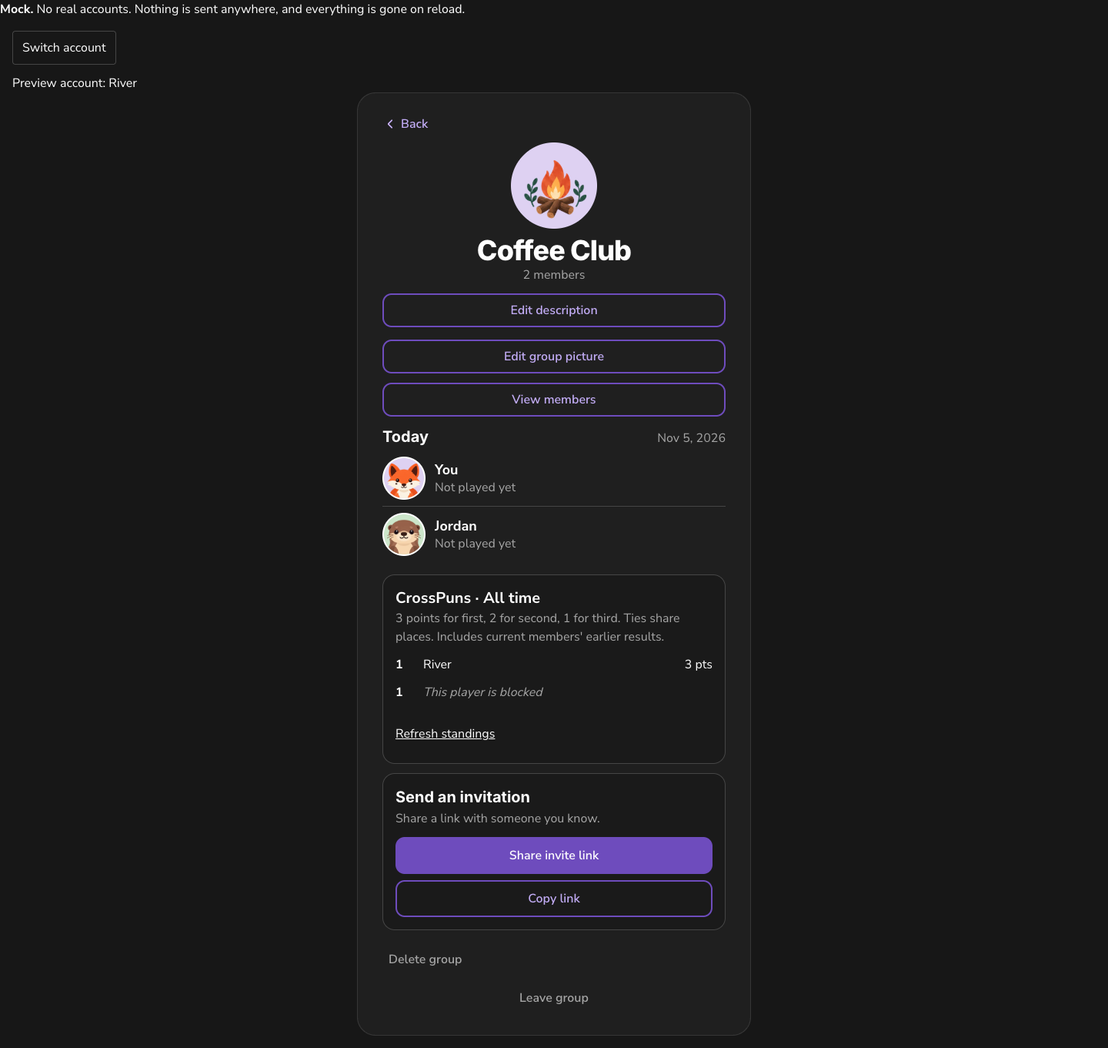
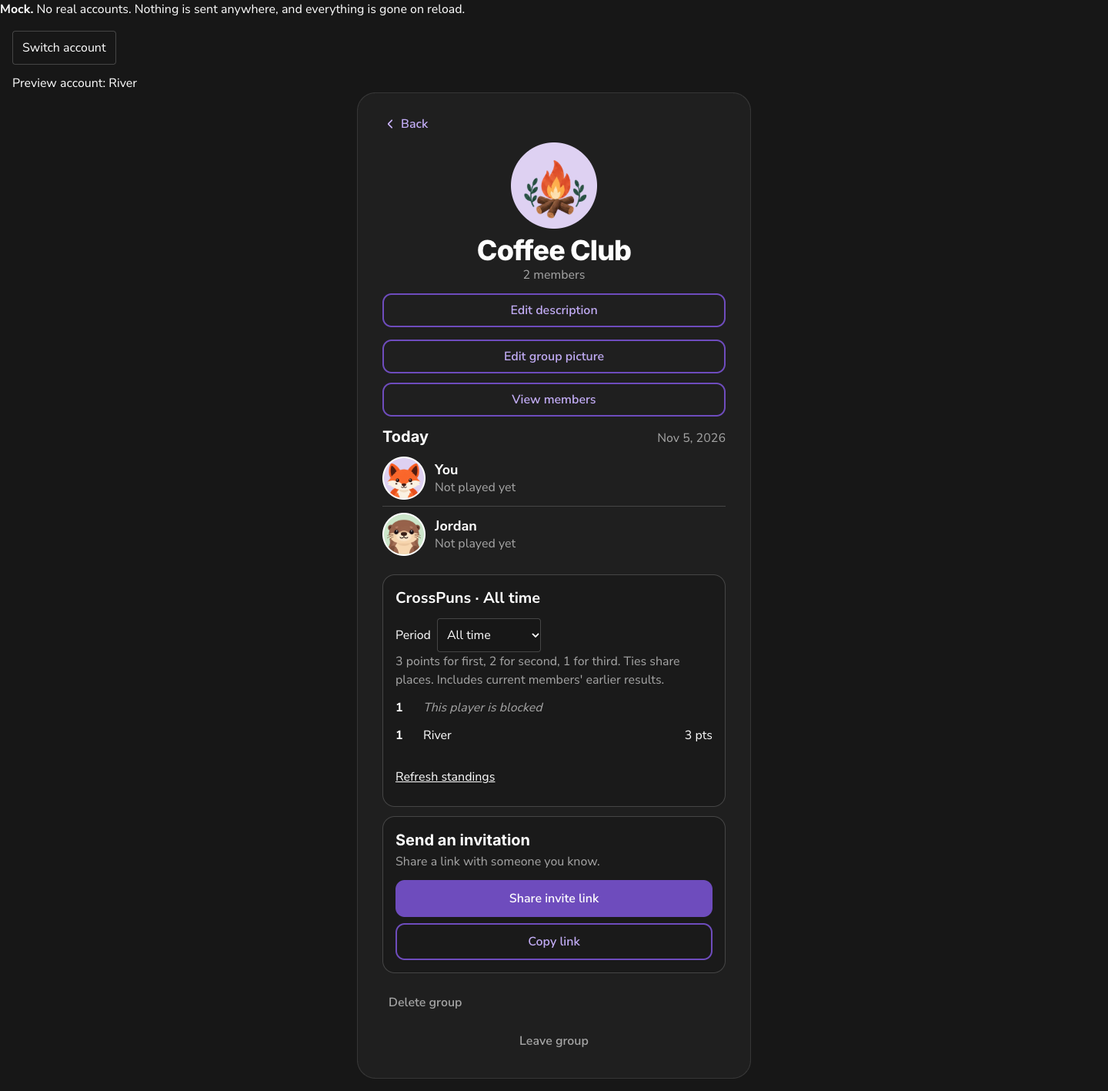
Add rolling CrossPuns standings by puzzle publication date

diff --git a/shared-service/tests/crosspunsStandings.test.ts b/shared-service/tests/crosspunsStandings.test.ts
@@ -11,6 +11,7 @@ beforeAll(async()=>{
  create table public.xw_solves(account_id uuid,puzzle_id uuid,seconds int,used_help boolean,solved_at timestamptz,primary key(account_id,puzzle_id));
  create function public.xw_today_local() returns date language sql as $$select (now() at time zone 'Pacific/Kiritimati')::date$$;`);
  await db.exec(readFileSync('shared-service/patches/0008_crosspuns_standings.sql','utf8'));
+ await db.exec(readFileSync('shared-service/patches/0009_crosspuns_rolling.sql','utf8'));
  for(const who of users){await call('ensure_person',[who,'rainbow']);await call('set_profile',[who,who,'fox','#DED1F2']);await db.query('insert into public.xw_accounts(global_user_id) values($1)',[who]);}
  ({groupId:group,inviteCode:code}=(await call('create_group',[users[0],'Club','Alice',1])).data);
  for(let i=1;i<4;i++)await call('join_group',[users[i],code,['Alice','Bob','Carol','Dave'][i],1]);
@@ -27,6 +28,27 @@ it('ranks current members using all prior history, competition ties and no dupli
  expect(answer.data.total).toBe(4);expect(answer.data.rows.map((r:any)=>[r.rank,r.points])).toEqual([[1,3],[1,3],[3,1],[4,0]]);
  expect((await call('crosspuns_standings',[users[0],group,50])).data.rows).toEqual([]);
 });
+it.each([[7,'2024-02-24'],[30,'2024-02-01'],[365,'2023-03-03']])('filters %i days by publication, inclusive boundaries, regardless of solve date',async(days,start)=>{
+ await db.exec('begin');
+ try {
+  for(const date of [start,'2024-03-01']){
+   const puzzle=(await db.query<{id:string}>('insert into public.xw_puzzles(publish_date) values($1) returning id',[date])).rows[0].id;
+   // A late solve is attributed to the puzzle's date, not today's timestamp.
+   await db.query("insert into public.xw_solves select id,$2,20,false,now() from public.xw_accounts where global_user_id=$1",[users[0],puzzle]);
+  }
+  for(const expression of ["$1::date-1","'2024-03-02'::date"]){
+   const puzzle=(await db.query<{id:string}>(`insert into public.xw_puzzles(publish_date) values(${expression}) returning id`,expression.includes('$1')?[start]:[])).rows[0].id;
+   await db.query("insert into public.xw_solves select id,$2,1,false,'2024-03-01' from public.xw_accounts where global_user_id=$1",[users[1],puzzle]);
+  }
+  const answer=await call('crosspuns_standings_period',[users[0],group,0,days,'2024-03-01']);
+  expect(answer.ok).toBe(true);expect(answer.data.rows.find((r:any)=>r.name==='Alice').points).toBe(6);
+  expect(answer.data.rows.find((r:any)=>r.name==='Bob').points).toBe(0);
+ } finally {await db.exec('rollback');}
+});
+it('keeps old all-time requests compatible and rejects malformed/incomplete periods',async()=>{
+ expect(await call('crosspuns_standings_period',[users[0],group,0,null,null])).toEqual(await call('crosspuns_standings',[users[0],group,0]));
+ for(const args of [[7,null],[null,'2024-03-01'],[8,'2024-03-01'],[7,'2024-02-30'],[7,'bad'],[7,'2024-3-1']])expect((await call('crosspuns_standings_period',[users[0],group,0,...args])).ok).toBe(false);
+});
 it('masks either direction without changing ranks or ordinary block result behavior',async()=>{
  expect((await call('block',[users[0],refs[1]])).ok).toBe(true);
  for(const [viewer,hidden] of [[users[0],refs[1]],[users[1],refs[0]]]){
@@ -36,6 +58,8 @@ it('masks either direction without changing ranks or ordinary block result behav
   expect(rows.map((r:any)=>r.rank)).toEqual([1,1,3,4]);
  }
  expect((await call('crosspuns_standings',[users[2],group,0])).data.rows.every((r:any)=>!r.blocked)).toBe(true);
+ const periodRows=(await call('crosspuns_standings_period',[users[0],group,0,7,'2020-01-01'])).data.rows;
+ expect(periodRows.filter((r:any)=>r.blocked)).toEqual([{blocked:true,rank:1,label:'This player is blocked'}]);
  const audience=(await db.query<{r:any}>('select social.audience_global_ids($1,$2) r',[users[0],group])).rows[0].r;
  expect(audience.data).not.toContain(users[1]);
 });

diff --git a/src/social/memoryHub.ts b/src/social/memoryHub.ts
@@ -142,6 +142,8 @@ export interface MemoryHub {
   transportFor(game: GameId): SocialTransport;
   /** The game-server route. No token reaches it, and nothing on a transport reaches it either. */
   serverFor(game: GameId): SocialServerRoute;
+  /** Test-only publication metadata; never infer it from completion time. */
+  seedCrossPunsPublication(puzzleId: string, date: string): void;
   /** One game deleted its account: only that game's link goes (D5). */
   unlinkGame(game: GameId, globalUserId: string): void;
   /** For conformance checks. No operation shows which games someone is in. */
@@ -396,6 +398,7 @@ export function createMemoryHub({ identity, now = Date.now, gameStatus = GAME_ST
   const blocks = new Map<string, Block>();
   const friendInvites = new Map<string, FriendInvite>();
   const groups = new Map<string, Group>();
+  const crossPunsDates = new Map<string,string>();
   const results = new Map<string, ResultCard>();
 
   /** Exactly 12 characters of 0-9a-z, whatever the id source gives. The tries only stop a source that gives nothing usable. */
@@ -938,15 +941,23 @@ export function createMemoryHub({ identity, now = Date.now, gameStatus = GAME_ST
       return done(NOTHING);
     },
 
-    crossPunsStandings(me, {groupId,offset}) {
+    crossPunsStandings(me, {groupId,offset,days,through}) {
       const found=membership(me,groupId);
       if(!found)return fail('not_a_member');
       if(!Number.isSafeInteger(offset)||offset<0||offset>10000)return fail('not_found');
+      let from: string | undefined;
+      if(days!==undefined || through!==undefined){
+        if(![7,30,365].includes(days as number)||!through||!/^\d{4}-\d{2}-\d{2}$/.test(through))return fail('not_found');
+        const end=new Date(`${through}T12:00:00Z`);
+        if(!Number.isFinite(end.getTime())||end.toISOString().slice(0,10)!==through)return fail('not_found');
+        end.setUTCDate(end.getUTCDate()-days!+1);from=end.toISOString().slice(0,10);
+      }
       const members=[...found.group.members.values()];
       const byPerson=new Map(members.map(m=>[m.person,m.memberRef]));
       const history=[...results].flatMap(([key,card])=>{
         const [game,puzzleId]=key.split('\n');
         const memberRef=byPerson.get(card.person);
+        if(from && (!crossPunsDates.has(puzzleId)||crossPunsDates.get(puzzleId)!<from||crossPunsDates.get(puzzleId)!>through!))return [];
         return game==='crosspuns'&&memberRef&&'seconds' in card.summary ? [{memberRef,puzzleId,seconds:card.summary.seconds}] : [];
       });
       const ranked=crossPunsStandings(members,history);
@@ -1161,6 +1172,7 @@ export function createMemoryHub({ identity, now = Date.now, gameStatus = GAME_ST
       const person = known === undefined ? undefined : people.get(known);
       return person ? [...person.games] : [];
     },
+    seedCrossPunsPublication(puzzleId,date) { crossPunsDates.set(puzzleId,date); },
     seedDisplayName(globalUserId, name) {
       personFor(globalUserId).displayName = name;
     },

diff --git a/src/components/social/CrossPunsStandingsPanel.tsx b/src/components/social/CrossPunsStandingsPanel.tsx
@@ -1,26 +1,34 @@
+import {localPuzzleDate} from '@/lib/socialWeek';
 import {useEffect,useState} from 'react';
 import type {Operations} from '@/social/contract';
 import {accountCard,quietText} from '@/components/account/accountStyles';
 import type {SocialApi} from './socialApi';
 
 export function CrossPunsStandingsPanel({api,groupId}:{api:SocialApi;groupId:string}) {
+ const [days,setDays]=useState<0|7|30|365>(0);
+ const [through,setThrough]=useState(()=>localPuzzleDate(api.today()));
  const [offset,setOffset]=useState(0),[revision,setRevision]=useState(0);
  const [read,setRead]=useState<{key:string;data?:Operations['crossPunsStandings']['data'];failed?:boolean}|null>(null);
- const key=`${groupId}/${offset}/${revision}`;
+ const key=`${groupId}/${offset}/${revision}/${days}/${through}`;
  useEffect(()=>{
-  const refresh=()=>{setOffset(0);setRevision(r=>r+1);};
-  window.addEventListener('focus',refresh);return()=>window.removeEventListener('focus',refresh);
- },[]);
+  const refresh=()=>{setThrough(localPuzzleDate(api.today()));setOffset(0);setRevision(r=>r+1);};
+  const timer=window.setInterval(()=>setThrough(localPuzzleDate(api.today())),30_000);
+  window.addEventListener('focus',refresh);return()=>{clearInterval(timer);window.removeEventListener('focus',refresh);};
+ },[api]);
  useEffect(()=>{
   let active=true;
-  void api.client.call('crossPunsStandings',{groupId,offset}).then(answer=>{
+  void api.client.call('crossPunsStandings',{groupId,offset,...(days?{days,through}:{})}).then(answer=>{
    if(!active)return;
    if(answer.ok===false)setRead({key,failed:true});else setRead({key,data:answer.data});
   });return()=>{active=false;};
- },[api,groupId,offset,key]);
+ },[api,groupId,offset,key,days,through]);
  const current=read?.key===key?read:null;
  return <section aria-label="CrossPuns standings" className={`${accountCard} mt-4`}>
-  <h2 className="text-xl font-bold">CrossPuns · All time</h2>
+  <h2 className="text-xl font-bold">CrossPuns · {days?`Last ${days} days`:'All time'}</h2>
+  <label className="mt-3 block">Period<select aria-label="Period" className="ml-2 min-h-11 max-w-full rounded border bg-background px-2" value={days} onChange={event=>{setDays(Number(event.target.value) as 0|7|30|365);setOffset(0);}}>
+   <option value={0}>All time</option><option value={7}>Last 7 days</option><option value={30}>Last 30 days</option><option value={365}>Last 365 days</option>
+  </select></label>
+  {days>0&&<p className={quietText}>By puzzle publication date, including today in your local time. Late solves count with their puzzle.</p>}
   <p className={quietText}>3 points for first, 2 for second, 1 for third. Ties share places. Includes current members' earlier results.</p>
   {!current?<p role="status">Loading standings…</p>:current.failed?<p role="status">Standings couldn't be loaded.</p>:<>
    <ol className="mt-3 space-y-3">{current.data!.rows.map((row,index)=><li key={index} className="flex items-start gap-3" data-testid="standing-row">

diff --git a/src/test/crosspunsStandingsPanel.test.tsx b/src/test/crosspunsStandingsPanel.test.tsx
@@ -1,7 +1,7 @@
 import {act,fireEvent,render,screen,within} from '@testing-library/react';import {expect,it,vi} from 'vitest';
 import {CrossPunsStandingsPanel} from '@/components/social/CrossPunsStandingsPanel';import type {SocialApi} from '@/components/social/socialApi';
 const data={rows:[{blocked:true,rank:1,label:'This player is blocked'},{blocked:false,rank:2,memberRef:'me',name:'Viewer',points:2}],total:2};
-const apiFor=(call:ReturnType<typeof vi.fn>)=>({client:{call}} as unknown as SocialApi);
+const apiFor=(call:ReturnType<typeof vi.fn>)=>({client:{call},today:()=>new Date(2026,10,5)} as unknown as SocialApi);
 it('renders canonical ranks without a blocked profile link, name or points',async()=>{
  const call=vi.fn().mockResolvedValue({ok:true,data});render(<CrossPunsStandingsPanel api={apiFor(call)} groupId="g"/>);
  await screen.findByText('This player is blocked');const row=screen.getAllByTestId('standing-row')[0];
@@ -17,4 +17,19 @@ it('discards an interrupted response after switching groups',async()=>{
  let resolve!:(value:unknown)=>void;const call=vi.fn().mockImplementationOnce(()=>new Promise(r=>{resolve=r;})).mockResolvedValue({ok:true,data:{rows:[],total:0}});const api=apiFor(call);
  const view=render(<CrossPunsStandingsPanel api={api} groupId="old"/>);view.rerender(<CrossPunsStandingsPanel api={api} groupId="new"/>);await screen.findByText('No standings on this page.');
  await act(async()=>resolve({ok:true,data}));expect(screen.queryByText('Viewer')).toBeNull();
+});
+
+it('switches rolling periods using the local date and resets paging',async()=>{
+ const call=vi.fn().mockResolvedValue({ok:true,data:{...data,total:51}});render(<CrossPunsStandingsPanel api={apiFor(call)} groupId="g"/>);await screen.findByText('Viewer');
+ fireEvent.click(screen.getByRole('button',{name:'Next'}));await screen.findByRole('button',{name:'Previous'});
+ fireEvent.change(screen.getByLabelText('Period'),{target:{value:'7'}});await screen.findByText('Viewer');
+ expect(call).toHaveBeenLastCalledWith('crossPunsStandings',{groupId:'g',offset:0,days:7,through:'2026-11-05'});
+ expect(screen.queryByRole('button',{name:'Previous'})).toBeNull();
+});
+
+it('updates the rolling end date on focus after local midnight',async()=>{
+ const call=vi.fn().mockResolvedValue({ok:true,data});const api=apiFor(call);render(<CrossPunsStandingsPanel api={api} groupId="g"/>);await screen.findByText('Viewer');
+ fireEvent.change(screen.getByLabelText('Period'),{target:{value:'30'}});await screen.findByText('Viewer');
+ api.today=()=>new Date(2026,10,6,0,1);fireEvent.focus(window);await screen.findByText('Viewer');
+ expect(call).toHaveBeenLastCalledWith('crossPunsStandings',{groupId:'g',offset:0,days:30,through:'2026-11-06'});
 });

diff --git a/src/test/socialGateway.test.ts b/src/test/socialGateway.test.ts
@@ -497,7 +497,7 @@ const CASES: { [O in OpName]: Case<O> } = {
   },
   leaveGroup: { args: { groupId: "g" }, fn: "social.leave_group", params: ["g"] },
   renameMeInGroup: { args: { groupId: "g", name: "A" }, fn: "social.rename_me_in_group", params: ["g", "A"] },
-  crossPunsStandings: { args: {groupId:"club",offset:0}, fn:"social.crosspuns_standings", params:["club",0] },
+  crossPunsStandings: { args: {groupId:"club",offset:0}, fn:"social.crosspuns_standings_period", params:["club",0,null,null] },
   getGroupDescription: { args: { groupId: "g1" }, fn: "social.get_group_description", params: ["g1"] },
   setGroupDescription: { args: { groupId: "g1", description: "Weekly puzzles" }, fn: "social.set_group_description", params: ["g1", "Weekly puzzles"] },
   renameGroup: { args: { groupId: "g", name: "G" }, fn: "social.rename_group", params: ["g", "G"] },
@@ -542,6 +542,12 @@ describe("social-gateway: the operation table", () => {
     expect(hub[1].role).toBe("social_gateway");
     expect(hub[1].params).toEqual([GLOBAL_ID, ...params]);
     expect(new Set(hub[1].text.match(/\$\d+/g)).size).toBe(1 + params.length);
+  });
+
+  it("passes rolling publication-date parameters only as bound values",async()=>{
+    const {deps,statements}=setup();
+    expect((await send(deps,"crossPunsStandings",{groupId:"club",offset:50,days:30,through:"2024-03-01"})).body).toEqual(HUB_ANSWER);
+    expect(statements.at(-1)!.params).toEqual([GLOBAL_ID,"club",50,30,"2024-03-01"]);
   });
 
   it.each(["true", 1, null, undefined])("refuses invalid favorite values before a database write: %s", async favorite => {

diff --git a/supabase/functions/social-gateway/core.ts b/supabase/functions/social-gateway/core.ts
@@ -350,7 +350,7 @@ export const OPERATIONS: Readonly<Record<string, Operation>> = {
     sql: "select social.rename_me_in_group($1::text, $2::text, $3::text) as result",
     params: (a) => [a.groupId, a.name],
   },
-  crossPunsStandings: { required: { groupId: "text", offset: "whole" }, sql: "select social.crosspuns_standings($1::text, $2::text, $3::int) as result", params: a => [a.groupId,a.offset] },
+  crossPunsStandings: { required: { groupId: "text", offset: "whole" }, optional: { days: "whole", through: "text" }, sql: "select social.crosspuns_standings_period($1::text, $2::text, $3::int, $4::int, $5::text) as result", params: a => [a.groupId,a.offset,a.days ?? null,a.through ?? null] },
   getGroupDescription: { required: { groupId: "text" }, sql: "select social.get_group_description($1::text, $2::text) as result", params: a => [a.groupId] },
   setGroupDescription: { required: { groupId: "text", description: "textOrNull" }, sql: "select social.set_group_description($1::text, $2::text, $3::text) as result", params: a => [a.groupId, a.description] },
   renameGroup: {

diff --git a/src/social/contract.ts b/src/social/contract.ts
@@ -287,7 +287,7 @@ export type ResultRow = FriendResultRow | MemberResultRow;
 
 /** One entry per operation in section 5 of the contract, except recordCompletion. List operations answer with an array of rows. */
 export interface Operations {
-  crossPunsStandings: { args: { groupId: string; offset: number }; data: {rows: import('./crosspunsStandingsView').CrossPunsStandingView[]; total: number} };
+  crossPunsStandings: { args: { groupId: string; offset: number; days?: 7 | 30 | 365; through?: string }; data: {rows: import('./crosspunsStandingsView').CrossPunsStandingView[]; total: number} };
   getMe: { args: NoArgs; data: Face & { displayName: string | null; friendCode: string; friendCount: number; groupCount: number } };
   setDisplayName: { args: { name: string }; data: { displayName: string } };
   setProfile: { args: Profile; data: Profile };

diff --git a/demo/profile-menu/preferences-main.tsx b/demo/profile-menu/preferences-main.tsx
@@ -32,6 +32,7 @@ if (new URLSearchParams(location.search).has('weekly')) {
 if(new URLSearchParams(location.search).has('standings')) {
   for(const [person,seconds] of [['River',10],['Jordan',10]] as const){
     world.signIn('crosspuns',person);
+    world.hub.seedCrossPunsPublication('old-crosspuns','2026-11-01');
     await world.hub.serverFor('crosspuns').recordCompletion({gameId:'crosspuns',puzzleId:'old-crosspuns',globalUserId:world.globalIdOf(person),completedAt:new Date(world.now()).toISOString(),summary:{seconds},detail:null});
   }
   const friends=await alice.call('listFriends',{});

diff --git a/src/social/conformance.ts b/src/social/conformance.ts
@@ -77,7 +77,7 @@ const DECLARED_ARGS: { [O in OpName]: readonly FieldsOf<Operations[O]['args']>[]
   listMembers: ['groupId', 'after', 'limit'],
   leaveGroup: ['groupId'],
   renameMeInGroup: ['groupId', 'name'],
-  crossPunsStandings: ['groupId','offset'],
+  crossPunsStandings: ['groupId','offset','days','through'],
   getGroupDescription: ['groupId'],
   setGroupDescription: ['groupId', 'description'],
   renameGroup: ['groupId', 'name'],

diff --git a/FRIENDS-GROUPS-CHECKPOINT.md b/FRIENDS-GROUPS-CHECKPOINT.md
@@ -2,7 +2,7 @@
 
 Branch: `codex/rainbow-profile-menu`. Latest saved service/UI slice: `b5ccadb` (delegated invitations), following `a17a96c` transparency, `68dcf07` member roster, `4f2104f` private friend preferences, `d1bd15d` group ordering, `877a20b` descriptions, and `2e7267b` owner actions. Friend-profile/favorites strip saved at `cc8e695`. Monday–Sunday activity was saved at `a0a10a8`; the latest rolling-window direction below supersedes it. Standings foundation is saved at `633829c`. All changes are LOCAL; shared patches unapplied, production flags off, no push/merge/deployment/live account writes.
 
-Latest verification: **74 app files / 1,904 assertions passed cleanly**, 105 shared-service tests passed. App typecheck, changed-file lint and production build pass. Profile and preferences browser flows pass at 320/1440px in light/dark. See the final section for deliverables and remaining decisions. Historical sections below are chronological and superseded by later sections.
+Latest verification: **74 app files / 1,907 assertions passed cleanly**, 109 shared-service tests passed. App typecheck, changed-file lint and production build pass. Profile and preferences browser flows pass at 320/1440px in light/dark. See the final section for deliverables and remaining decisions. Historical sections below are chronological and superseded by later sections.
 
 # Rainbow Friends & Groups checkpoint — 2026-11-05
 
@@ -190,3 +190,12 @@ This section supersedes the initial component-only status above. Integration cha
 - **29 extension SQL + 76 hub regressions passed** (105 service assertions, no skips). Covers posted-time precedence, ties, prior history, blocks in both directions, unaffected third-party viewer, departure/rejoin/source preservation, Reveal/future exclusion, outsider refusal, ACLs, 55-member paging and unavailable source. SQL uses minimal faithful source fixtures, not a hosted CrossPuns install.
 - **334 focused app assertions**, app typecheck, changed-file lint, build and whitespace checks passed. Browser check-standings.mjs passed canonical ties, masking both ways, account switching and 320/1440 light/dark with no overflow/errors. Evidence: evidence/standings-*.png; 320 dark inspected. Preview server needed restart after connection loss; browser rerun passed. All accounts synthetic.
 - Remaining product blocker: publication-date versus solve-date attribution for rolling 7/30/365-day standings; other games scoring undecided. Target schema/privilege verification and coordinated shared SQL/gateway release remain rollout checks. No push, merge, deployment, production flags or live-data changes. Original CrossPuns dirty worktree untouched.
+
+## Publication-date rolling CrossPuns standings — 2026-11-05
+- Previous all-time integration committed as d9bad4d. Deb explicitly chose publication date for rolling standings; no remaining attribution decision.
+- Added `shared-service/patches/0009_crosspuns_rolling.sql`: valid 7/30/365-day inclusive ranges over xw_puzzles.publish_date in both posted-time and unassisted-solve branches. Solve/submission time never chooses the period. Late solves and pre-join history count with the puzzle; current memberships still determine ranks. Existing source publication-availability check, membership locks, per-viewer mask allow-list and ordinary block/detail gates remain intact. Null period arguments delegate to unchanged 0008 for compatibility.
+- Extended gateway/client contract with optional days/through bound parameters; SQL refuses invalid dates or unsupported/incomplete ranges. Updated memory/conformance parity with separately seeded mock publication metadata rather than completion-date guesses. Existing three-argument SQL readers remain valid; deploy 0009 before the new gateway.
+- Panel now has All time / Last 7 / Last 30 / Last 365 days, period-change paging reset, local date/focus refresh and stale-result isolation. Windows include today plus the preceding N-1 local calendar dates, preserving established app timezone behavior. Production flag remains OFF.
+- Verification: **74 app files / 1907 assertions passed cleanly** (`/tmp/rainbow-period-full.log`); **33 SQL extension + 76 hub regression assertions passed** (109 service, no skips). SQL covers exact inclusive/exclusive boundaries, leap-year/year spans, late solves by publication, pre-join history, blocked rolling rows, malformed arguments and all-time compatibility. Gateway verifies bound parameter order. UI tests cover period changes/paging reset and local-midnight focus refresh.
+- Browser initially exposed an ambiguous selector label; added explicit accessible Period label. Subsequent **213 focused gateway/panel tests**, typecheck, changed-file lint and final build pass. All browser period checks pass with canonical ties, both block directions, account switching and 320/1440 light/dark; new `evidence/standings-period-*` and refreshed all-time captures. 320px dark visually reviewed. No hosted accounts or queries.
+- All unambiguous approved Rainbow Friends/Groups slices are now implemented locally. Remaining work is review/target schema-and-permission verification and coordinated release authorization, plus future decisions for other games scoring and any new invitation-link policies. Do not roll out to other sites, push, merge, deploy or change production flags without authorization. Original worktrees and personal history remain untouched.

diff --git a/shared-service/README.md b/shared-service/README.md
@@ -68,4 +68,14 @@ Blocking does not change the shared ranking. Masked rows contain only blocked/ra
 
 Verify the target CrossPuns schema and permissions, then coordinate shared SQL/gateway rollout before enabling `VITE_CROSSPUNS_STANDINGS=true` (defaults OFF). No CrossPuns website adapter or legacy membership migration is included. Portable contract/memory/conformance code now also depends on crosspunsStandings.ts and crosspunsStandingsView.ts from the same revision. Nothing has been deployed.
 
-Local SQL verification uses minimal fixtures of the relevant actual CrossPuns columns/unique keys, not a hosted deployment. Tests cover posted-time precedence, ties, prior history, masking in both directions, unaffected third parties, departure/rejoin/source preservation, Reveal/future exclusion, 55-member paging, ACLs and missing source tables. Combined hub regressions include 0008. Browser verification uses synthetic memory-hub accounts. Rolling 7/30/365-day scoring remains pending publication-date versus solve-date attribution; all-time needs no such choice.
+Local SQL verification uses minimal fixtures of the relevant actual CrossPuns columns/unique keys, not a hosted deployment. Tests cover posted-time precedence, ties, prior history, masking in both directions, unaffected third parties, departure/rejoin/source preservation, Reveal/future exclusion, 55-member paging, ACLs and missing source tables. Combined hub regressions include 0008. Browser verification uses synthetic memory-hub accounts. Deb subsequently chose publication-date attribution; patch 0009 below implements the rolling periods.
+
+## Publication-date rolling standings (0009)
+
+`0009_crosspuns_rolling.sql` adds crosspuns_standings_period. Optional days/through arguments on the gateway operation select 7, 30 or 365 inclusive calendar dates ending on the viewer's current local date; all-time requests still delegate to the unchanged 0008 function. Both source branches filter `xw_puzzles.publish_date`, never solve/submission timestamps. Late solves and pre-join history therefore belong to their puzzle's publication period. The existing CrossPuns publication-availability check is also preserved.
+
+Only 7/30/365 and valid ISO date strings are accepted; malformed/incomplete periods refuse. Old gateway clients calling the three-argument all-time function remain compatible. Apply 0008 then 0009 before the updated gateway. The existing VITE_CROSSPUNS_STANDINGS flag remains off by default. No new production flags or deployment occurred.
+
+The panel exposes All time / Last 7 / Last 30 / Last 365 days, resets paging when periods change, refreshes at local day changes/focus and discards stale responses. Boundaries use the existing viewer-local calendar, not UTC timestamp truncation; backend dates are explicit date-only values. Mock-only publication metadata is seeded separately and is never guessed from completion time. Per-puzzle detail gates and ordinary block behavior are unchanged.
+
+SQL tests cover both inclusive edges, outside-edge exclusion, leap-year 365-day boundaries, late solves counted by publication date, invalid arguments, all-time compatibility and masked rolling rows. Combined regressions include 0009. Browser checks cover every period, shared ties, either-direction masks and account switching at 320/1440 light/dark.

diff --git a/docs/social/CROSSPUNS-STANDINGS-INTEGRATION.md b/docs/social/CROSSPUNS-STANDINGS-INTEGRATION.md
@@ -1,12 +1,12 @@
 # Current status — 2026-11-05
 
-All-time standings are implemented locally: dedicated shared SQL reader (0008), authenticated gateway operation, typed client/memory/conformance parity and Rainbow clubhouse panel. `VITE_CROSSPUNS_STANDINGS` defaults OFF. No deployment, hosted writes or CrossPuns website rollout occurred.
+All-time and publication-date rolling standings (7/30/365 days) are implemented locally: dedicated shared SQL readers (0008/0009), authenticated gateway operation, typed client/memory/conformance parity and Rainbow clubhouse panel. `VITE_CROSSPUNS_STANDINGS` defaults OFF. No deployment, hosted writes or CrossPuns website rollout occurred.
 
 Deb accepted inference from small groups. Shared ranks are calculated before per-viewer masking; blocked rows contain only rank and generic label, with no source identity, scores or puzzle data. Existing block/result paths remain unchanged. Prior privacy-choice blockers in the historical notes below are resolved.
 
-Verified: 1,904 app assertions, 105 service assertions, typecheck/lint/build, and 320/1440 light/dark browser flows including both block directions and account switching. Local SQL fixtures cover actual relevant source columns; target hosted schema/permissions still require verification before rollout.
+Verified: 1,907 app assertions, 109 service assertions, typecheck/lint/build, and 320/1440 light/dark browser flows including both block directions and account switching. Local SQL fixtures cover actual relevant source columns; target hosted schema/permissions still require verification before rollout.
 
-Remaining product decision: publication date versus solve date for rolling 7/30/365-day scoring. Other games scoring remains undecided. No missing access prevents local all-time implementation; it is done.
+Deb chose publication date. Rolling periods are implemented, including late solves and earlier membership history. Other games scoring remains undecided. Target schema/privilege verification and coordinated release remain outstanding; nothing is deployed. Historical pending-decision notes below are superseded.
 
 ---
 
